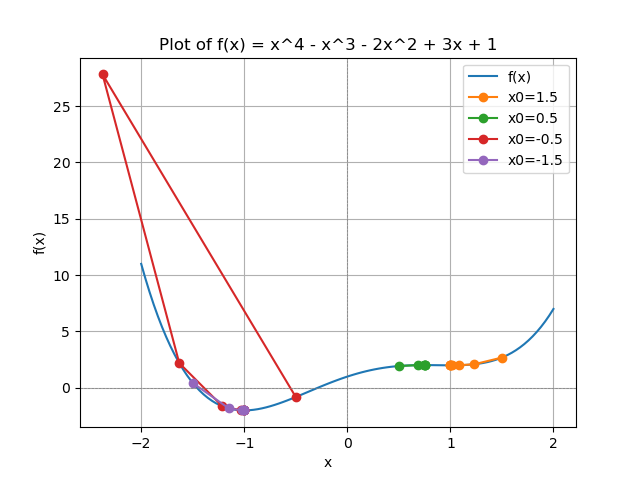
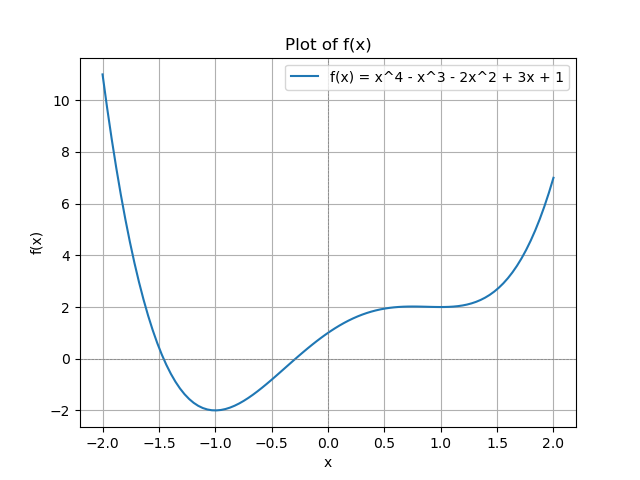
hw2 on surface

diff --git a/Hw2/hw2p2.py b/Hw2/hw2p2.py
@@ -6,50 +6,14 @@ import plot_utils as ps
 def f(x):
     return x**4 - x**3 - 2 * x**2 + 3 * x + 1
 
-# find minimum using Newton's method
-def newton_method(func, x0, tol=1e-6, max_iter=100):
-    x = x0
-    x_values = [x]  # store the values of x for plotting
-    for i in range(max_iter):
-        f_x = func(x)
-        f_prime_x = (func(x + tol) - func(x - tol)) / (2 * tol)  # numerical derivative
-        f_double_prime = (func(x + tol) - 2*func(x) + func(x - tol)) / (tol**2)
-        if f_prime_x == 0:  # avoid division by zero
-            print("Derivative is zero. No solution found.")
-            return None
-        x_new = x - f_prime_x/f_double_prime  # Newton's update
-        if abs(x_new - x) < tol:  # check for convergence
-            print(f"Converged to {x_new:.2f} after {i+1} iterations.")
-            x_values.append(x_new)
-            return x_values
-        x = x_new
-        x_values.append(x)  # store the value of x for plotting
-    print("Maximum iterations reached. No solution found.")
-    return x_values
-
-# find the minimum using Newton's method
-x_values_1 = newton_method(f, x0=1.5)
-print(f"When x0=1.5: x_min = {x_values_1[-1]:.2f} f(x_min) = {f(x_values_1[-1]):.2f}")
-x_values_2 = newton_method(f, x0=0.5)
-print(f"When x0=0.5: x_min = {x_values_2[-1]:.2f} f(x_min) = {f(x_values_2[-1]):.2f}")
-x_values_3 = newton_method(f, x0=-0.5)
-print(f"When x0=-0.5: x_min = {x_values_3[-1]:.2f} f(x_min) = {f(x_values_3[-1]):.2f}")
-x_values_4 = newton_method(f, x0=-1.5)
-print(f"When x0=-1.5: x_min = {x_values_4[-1]:.2f} f(x_min) = {f(x_values_4[-1]):.2f}")
-
 # create a grid of points
 x = np.linspace(-2, 2, 100)
 y = f(x)
 
 # plot the function
 plt.figure()
-plt.plot(x, y, label="f(x)")
-plt.title("Plot of f(x) = x^4 - x^3 - 2x^2 + 3x + 1")
-# plot the trajectory of the Newton's method
-plt.plot(x_values_1, [f(x) for x in x_values_1], label="x0=1.5", marker='o')
-plt.plot(x_values_2, [f(x) for x in x_values_2], label="x0=0.5", marker='o')
-plt.plot(x_values_3, [f(x) for x in x_values_3], label="x0=-0.5", marker='o')
-plt.plot(x_values_4, [f(x) for x in x_values_4], label="x0=-1.5", marker='o')
+plt.plot(x, y, label="f(x) = x^4 - x^3 - 2x^2 + 3x + 1")
+plt.title("Plot of f(x)")
 plt.xlabel("x")
 plt.ylabel("f(x)")
 plt.axhline(0, color="gray", lw=0.5, ls="--")
@@ -57,4 +21,3 @@ plt.axvline(0, color="gray", lw=0.5, ls="--")
 plt.legend()
 plt.grid()
 plt.savefig("plots/function_poly.png")
-plt.show()
